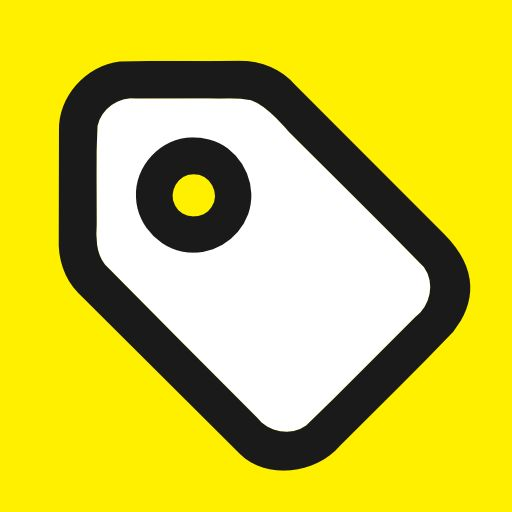
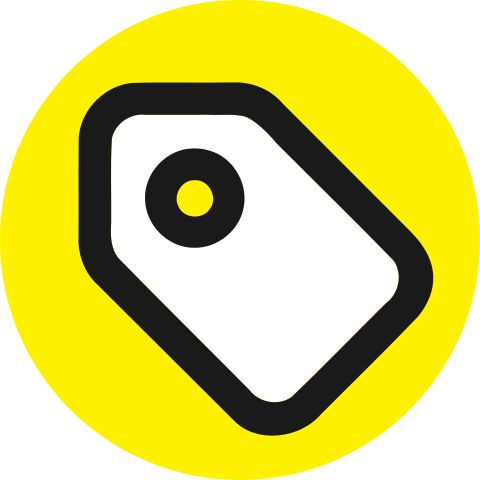
Updated defaul ID image.

diff --git a/template-parts/header/site-identity.php b/template-parts/header/site-identity.php
@@ -28,7 +28,7 @@ if ( is_front_page() && has_custom_logo() ) {
 	$site_logo = sprintf(
 		'<a href="%1s" class="custom-logo-link" rel="home" itemprop="url"><img src="%2s" class="custom-logo" alt="%3s" itemprop="logo" width="512" height="512"></a>',
 		esc_url( home_url( '/' ) ),
-		get_theme_file_uri( '/assets/images/identity-image.jpg' ),
+		get_theme_file_uri( '/assets/images/identity-image.png' ),
 		get_bloginfo( 'name' )
 	);
 }
